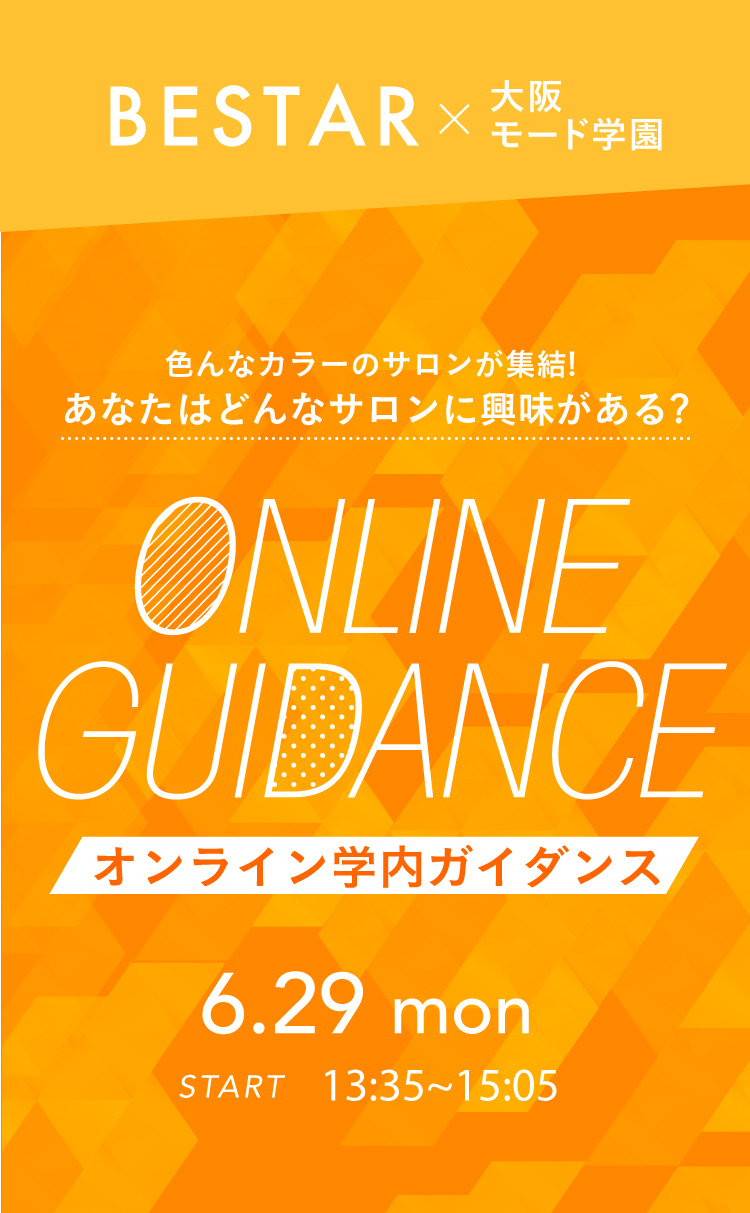
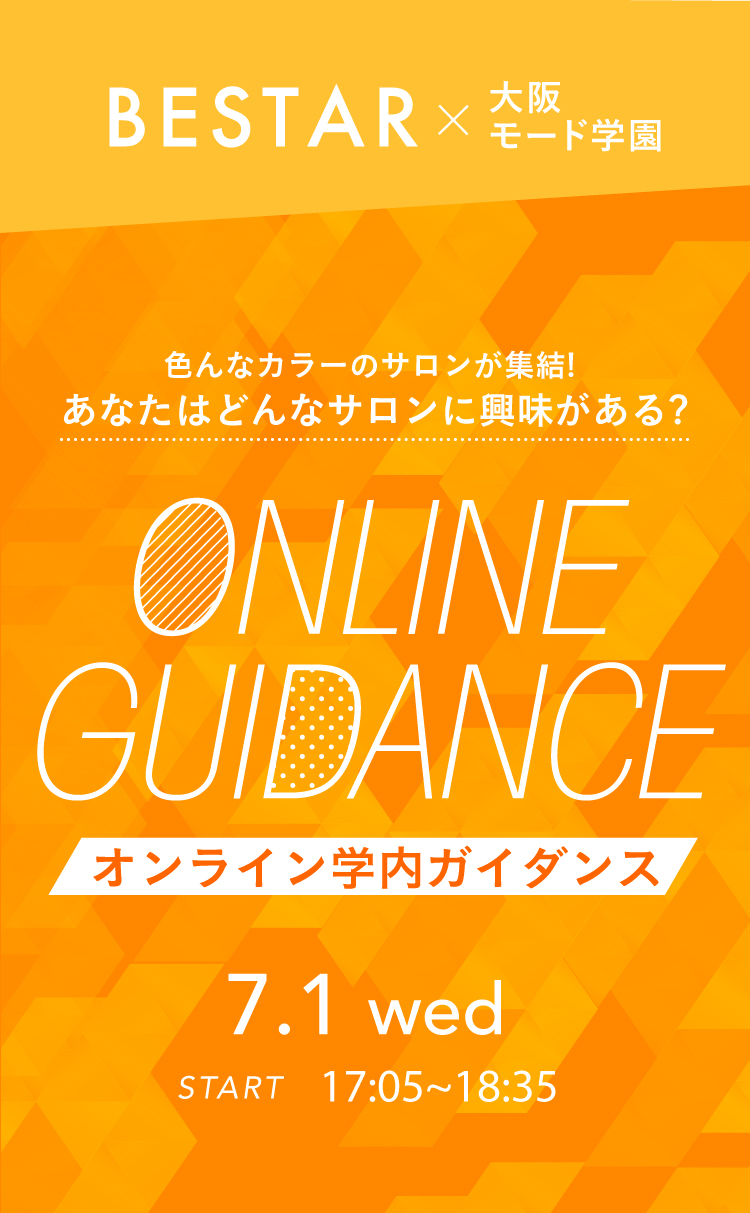
added JAPAN

diff --git a/index.html b/index.html
@@ -11,7 +11,7 @@
 		<meta name="description" content="6/29開催! 大阪モード学園 オンライン学内ガイダンスのページです。">
 		<meta name="keywords" content="学内ガイダンス,美容学生,サロン">
 		<link rel="stylesheet" type="text/css" href="css/index.css">
-		<title>6/29 オンライン学内ガイダンス</title>
+		<title>7/1 オンライン学内ガイダンス</title>
 		<style type="text/css"></style>
 
 		<!-- <script type="text/javascript">
@@ -222,6 +222,21 @@
 							<img class="zoom" src="./images/ZOOM.jpg" alt="zoom">
 						</a>
 						<a href="http://hairs-berry.com/">
+							<img class="hp" src="./images/HP.jpg" alt="hp">
+						</a>
+					</div>
+				</div>
+
+				<!-- ジャパン  -->
+				<div class="exhibitor">
+					<div class="format_part">
+						<img class="format" src="./images/JAPAN.jpg" alt="format">
+					</div>
+					<div class="bottom_part">
+						<a href="https://zoom.us/j/93218992538?pwd=NEg0bHdmeEdaNG0zaWNNeTlJbThTZz09">
+							<img class="zoom" src="./images/ZOOM.jpg" alt="zoom">
+						</a>
+						<a href="https://www.japan-produce.com/">
 							<img class="hp" src="./images/HP.jpg" alt="hp">
 						</a>
 					</div>
